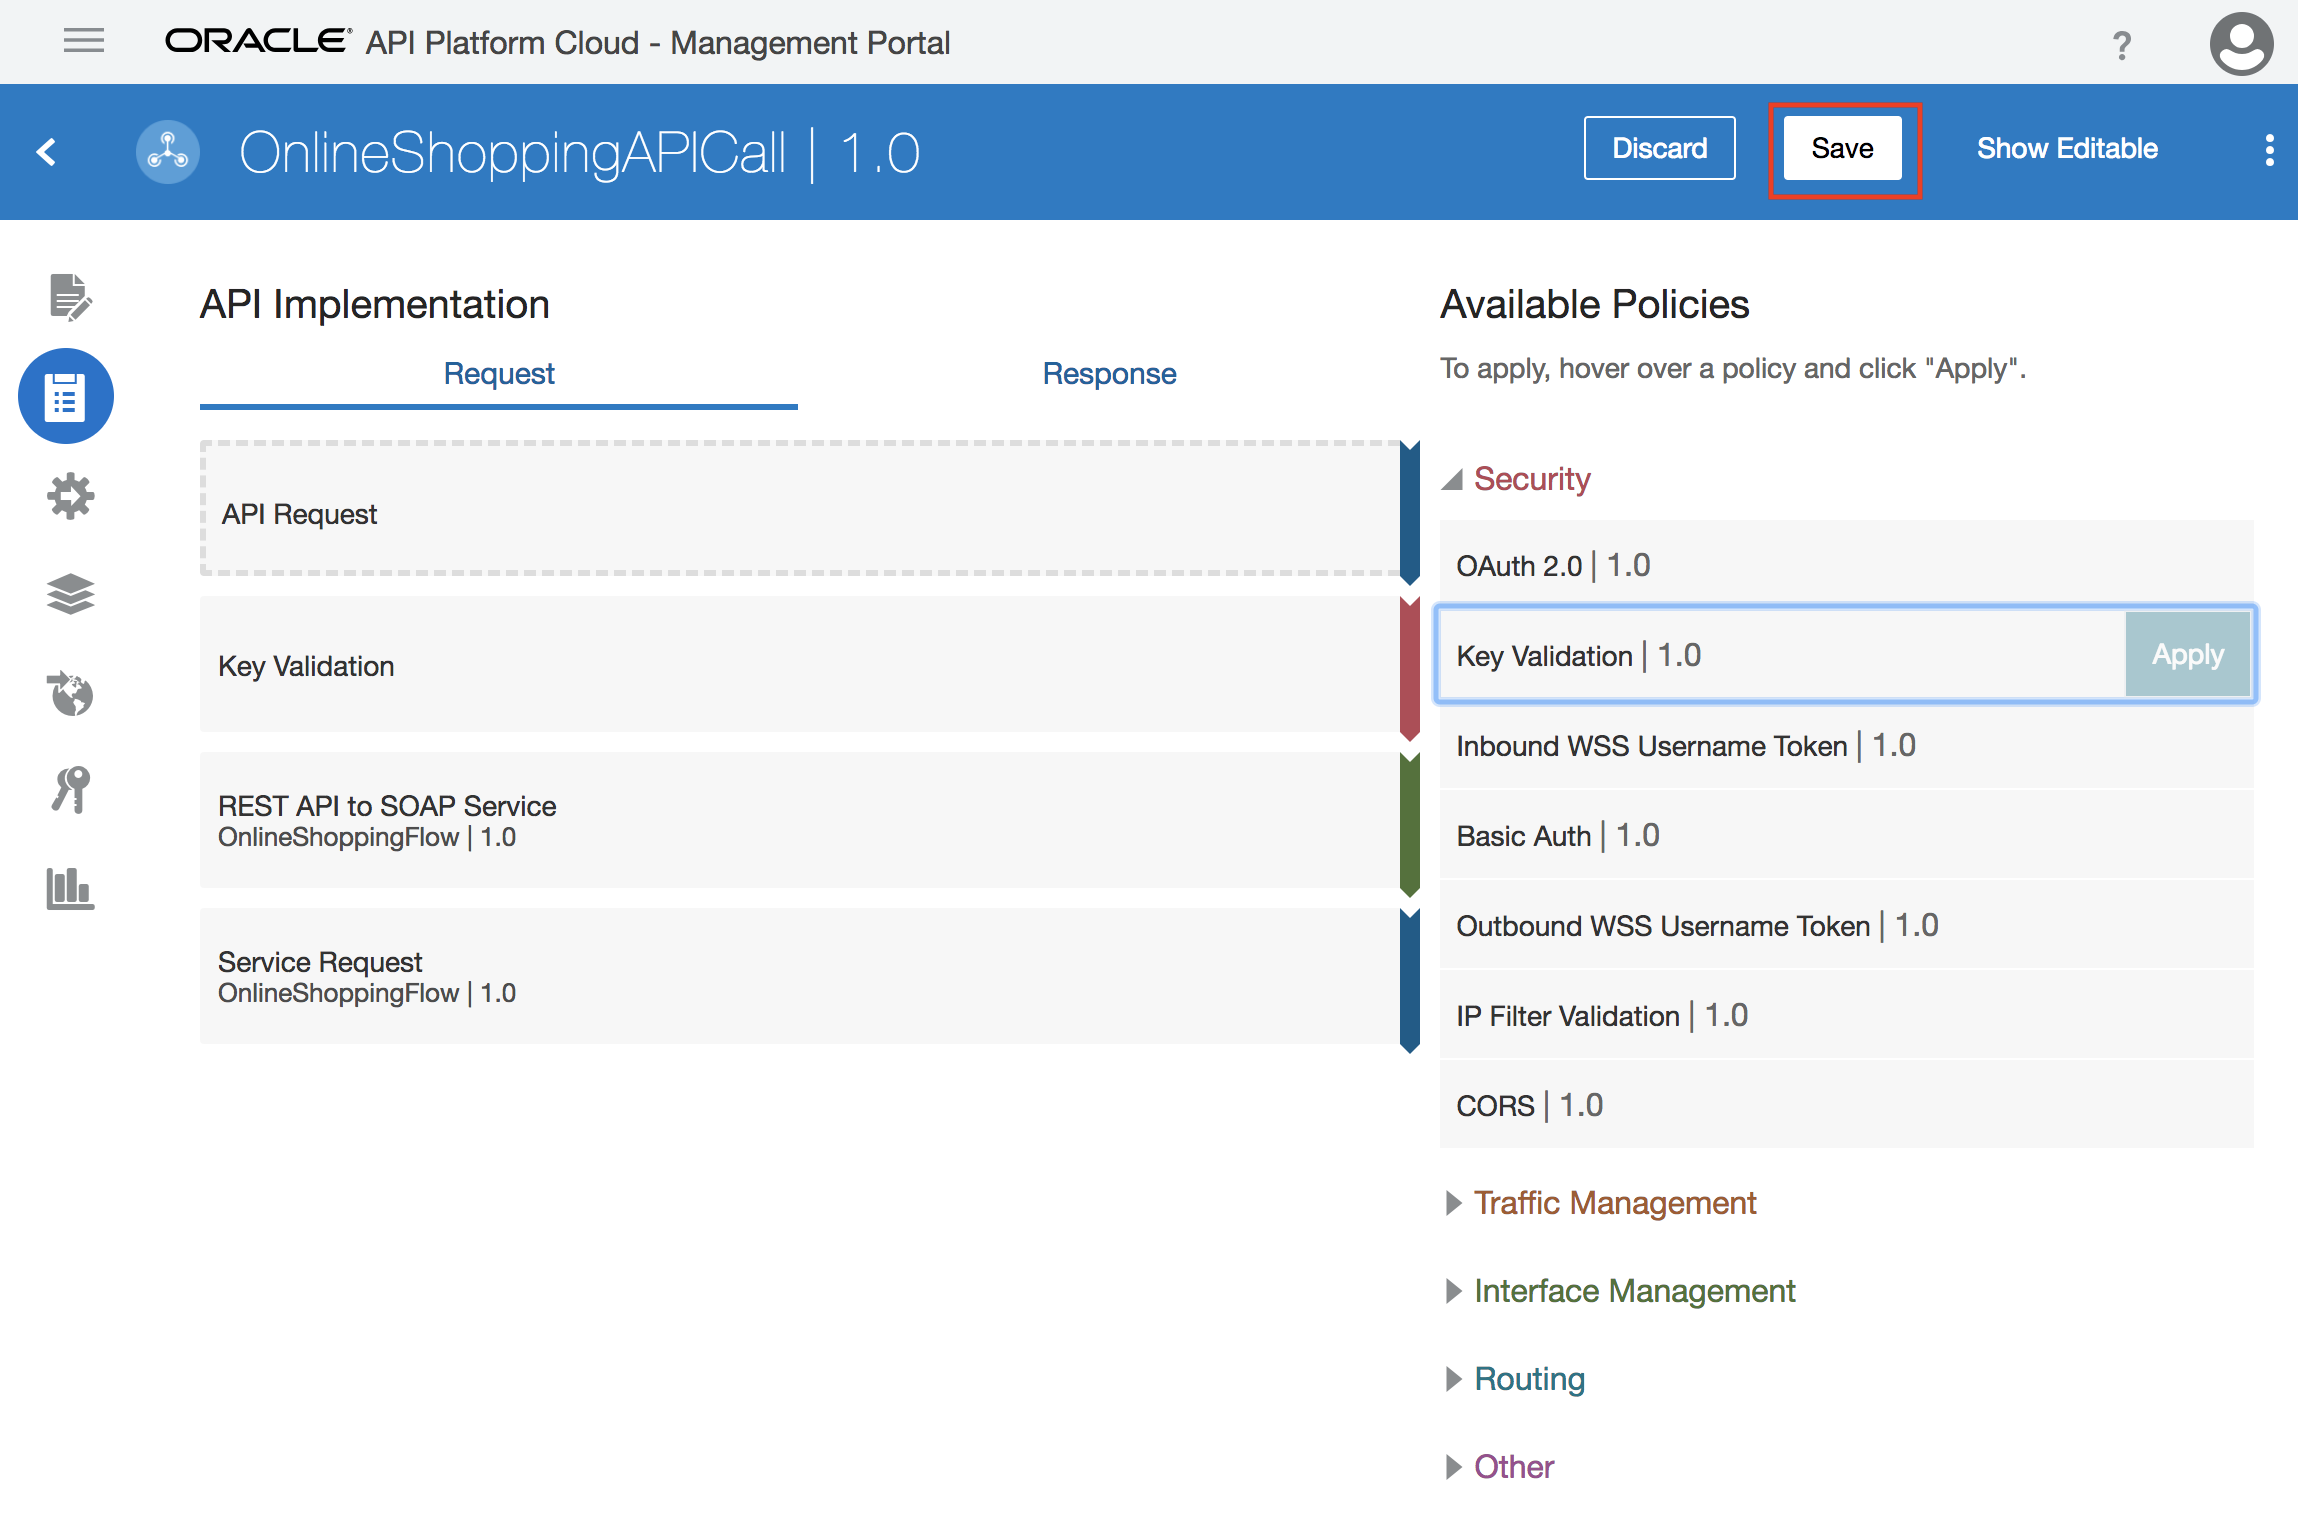
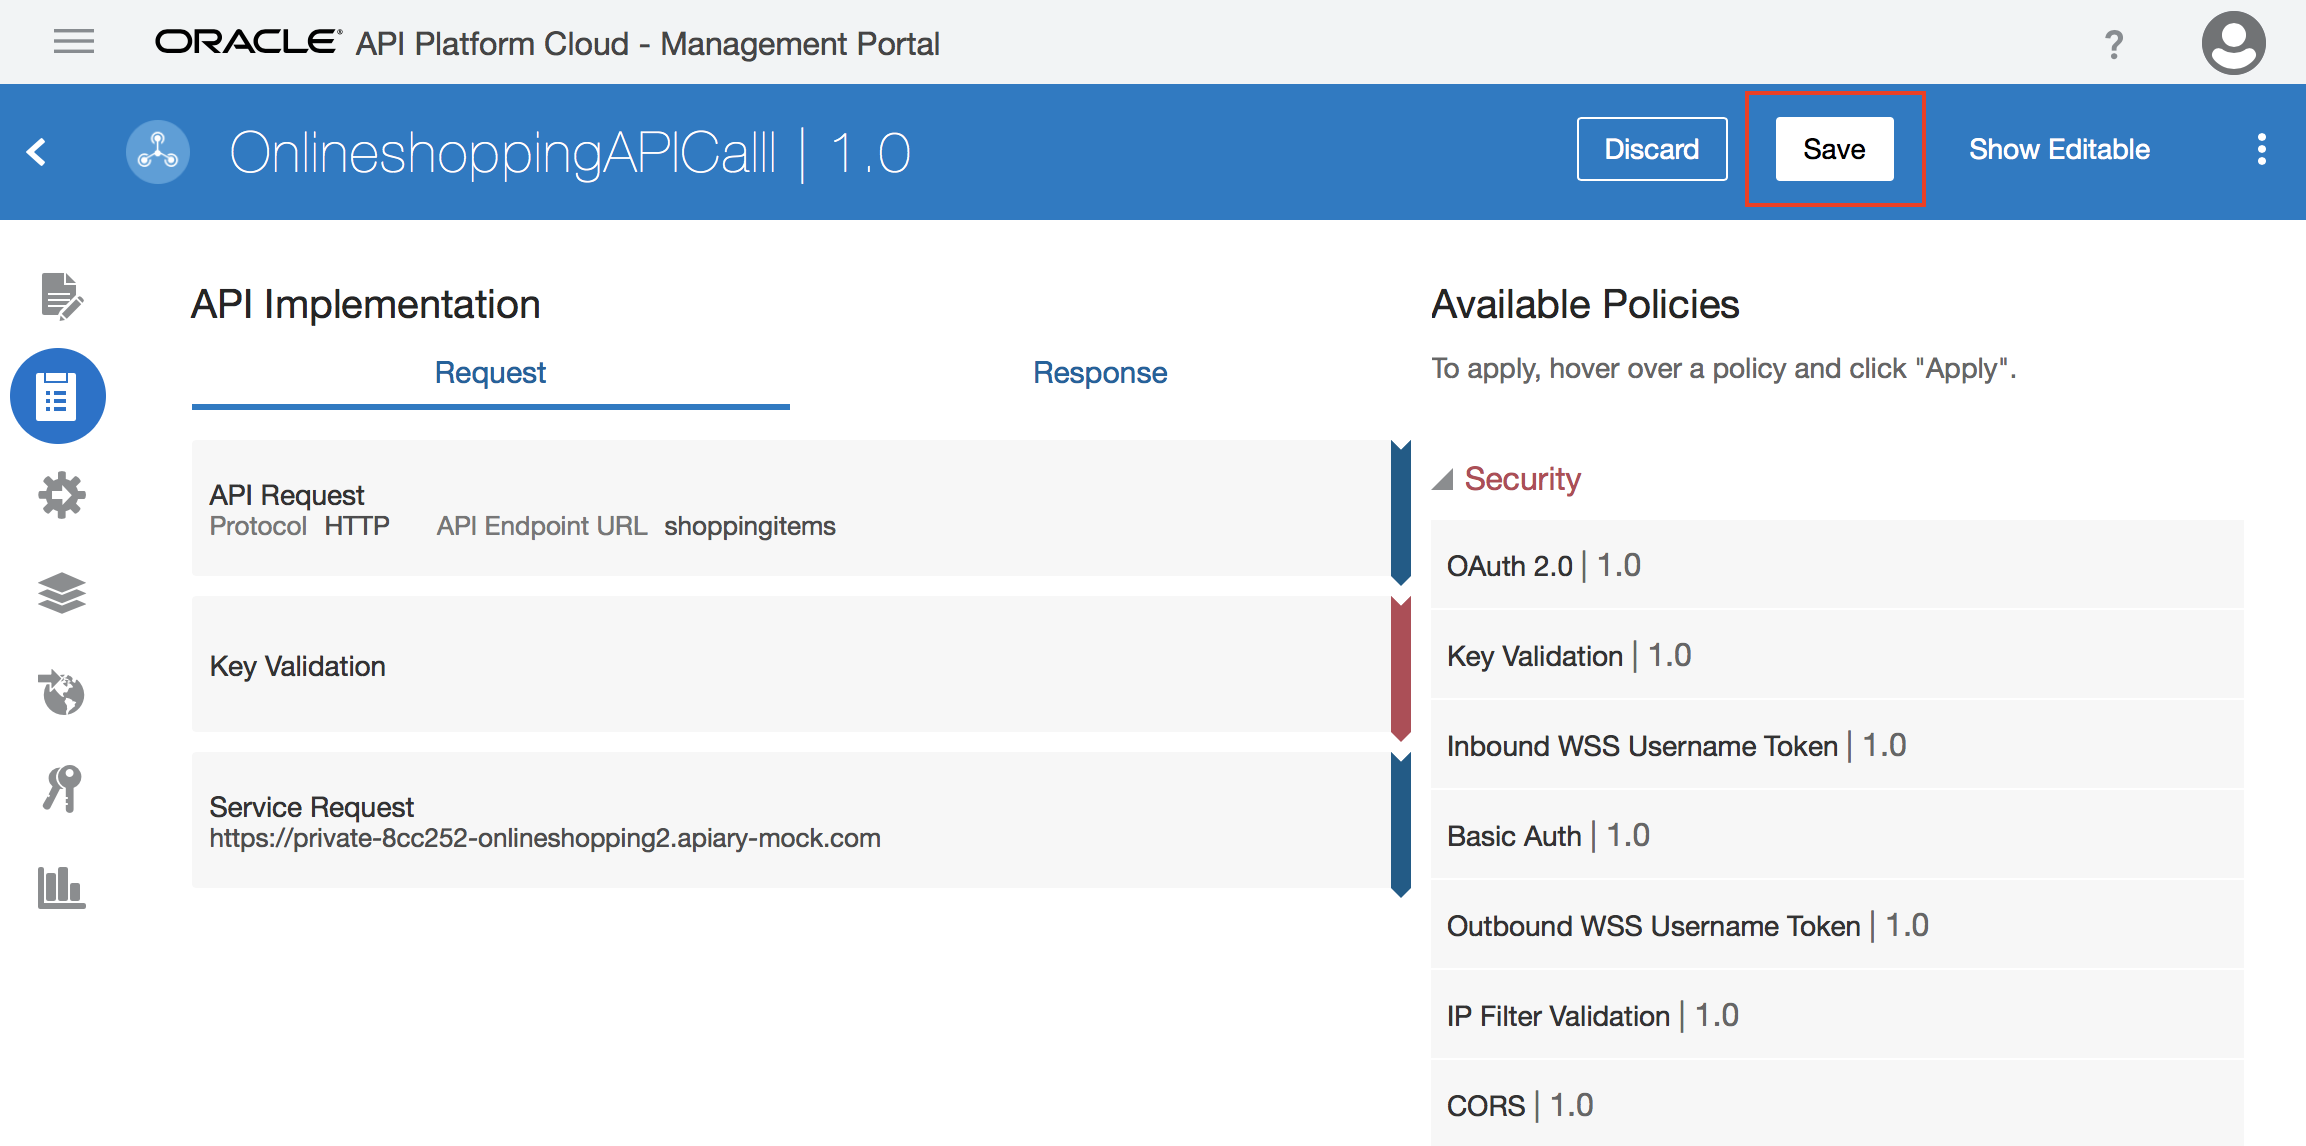
draft 1

diff --git a/ics900.md b/ics900.md
@@ -34,21 +34,33 @@ Let's start by logging into the API Platform Cloud Management Portal.
 ![Homepage](images/900/image102.png)
 
 
-## 1.2: Configure API Request
+## 1.2: Configure API Specification
 
 #### 1.2.1: From the APIs tab, click the **_OnlineshoppingAPICall_** API you created in the previous task
 ![Homepage](images/900/image103.png)
 
-#### 1.2.1: From the APIs tab, click the **_OnlineshoppingAPICall_** API you created in the previous task
-![Homepage](images/900/image103.png)
+#### 1.2.2: Select the **_Specification_** icon, and click on **_Apiary_** 
+![Homepage](images/900/image115.png)
 
-#### 1.2.2: Click on the API Implementation icon
+#### 1.2.4: Select the API you've created, and click **_Connect_**
+NOTE: If you don't have an API created in Apiary, go ahead and create one.
+![Homepage](images/900/image116.png)
+
+#### 1.2.5: Confirm connection
+![Homepage](images/900/image117.png)
+
+#### 1.2.6: Save
+
+
+## 1.3: Configure API Request
+
+#### 1.3.2: Click on the API Implementation icon
 ![Homepage](images/900/image104.png)
 
-#### 1.2.3: Click on API Request, and click the **_Edit_** button
+#### 1.3.3: Click on API Request, and click the **_Edit_** button
 ![Homepage](images/900/image105.png)
 
-#### 1.2.4: Select **_HTTP_** from the **_protocol_** list, and enter an endpoint, and click **_apply_**
+#### 1.3.4: Select **_HTTP_** from the **_protocol_** list, and enter an endpoint, and click **_apply_**
 ![Homepage](images/900/image106.png)
 
 
@@ -58,7 +70,8 @@ Let's start by logging into the API Platform Cloud Management Portal.
 ![Homepage](images/900/image107.png)
 
 #### 1.3.2: Enter an Apiary Mock Service URL in **_Enter a URL_**, and click **_Apply_**
-![Homepage](images/900/image108.png)
+NOTE: Enter everything until the .com
+![Homepage](images/900/image118.png)
 
 #### 1.3.3: Click **_Save_**
 ![Homepage](images/900/image109.png)
@@ -66,41 +79,35 @@ Let's start by logging into the API Platform Cloud Management Portal.
 
 ## 1.4: Configure Security
 
-#### 1.4.1: Under APIs, select the API you have created
-![Homepage](images/900/image901.png)
-
-#### 1.4.2: Select the **_API Implementation_** icon from the icon list on the left
-![Homepage](images/900/image902.png)
-
-#### 1.4.3: Click on **_Security_** to expand it 
+#### 1.4.1: While in the **_API Implementation_** section, click on **_Security_** from the available policies 
 ![Homepage](images/900/image903.png)
 
-#### 1.4.4: Select **_Key Validation_**
+#### 1.4.3: Select **_Key Validation_**
 ![Homepage](images/900/image904.png)
 
-#### 1.4.5: Click on **_Apply_**
+#### 1.4.4: Click on **_Apply_**
 ![Homepage](images/900/image905.png)
 
-#### 1.4.6:  Complete the required fields on the first page, and click the next button
+#### 1.4.5:  Complete the required fields on the first page, and click the next button
 ![Homepage](images/900/image906.png)
 
-#### 1.4.7: Provide a **_Key Query Parameter_**, and click **_Apply_**
+#### 1.4.6: Provide a **_Key Query Parameter_**, and click **_Apply_**
 ![Homepage](images/900/image907.png)
 
-#### 1.4.8: Click on **_Save_**
+#### 1.4.7: Click on **_Save_**
 ![Homepage](images/900/image908.png)
 
 
-#### 1.4.9: Confirm that the security configuration is saved
+#### 1.4.8: Confirm that the security configuration is saved
 ![Homepage](images/900/image909.png)
 
-#### 1.4.10: Additional resources on available security policies
+#### 1.4.9: Additional resources on available security policies
 ![Homepage](images/900/image910.png)
 
 - [Refer to policy details here](https://docs.oracle.com/en/cloud/paas/api-platform-cloud/apfad/implement-apis.html#GUID-1EE65B88-5050-4AFE-8F53-4B256D4E2AA3)
 
 
-## 1.5 Deploy API to Gateway
+## 1.5: Deploy API to Gateway
 
 #### 1.5.1: Click on the **_Deployments_** icon
 ![Homepage](images/900/image911.png)
@@ -114,13 +121,91 @@ Let's start by logging into the API Platform Cloud Management Portal.
 NOTE: you should receive a notification that your deployment request has been submitted.
 
 #### 1.5.4: Confirm that the API has been deployed
-![Homepage](images/900/image914.png)
+![Homepage](images/900/image110.png)
 
 
-## 1.4: Login to Developers Portal
+## 1.6: Configure Entitlements
+
+## 1.6.1: Click on **_Add Entitlement_**
+![Homepage](images/900/image110.png)
+
+#### 1.6.2: Select a plan, and click **_Add_**
+![Homepage](images/900/image111.png)
+
+#### 1.6.2: Click on your plan and select **_Published_**
+![Homepage](images/900/image112.png)
+
+#### 1.6.3: Select **_Yes_** to publish the entitlement
+![Homepage](images/900/image113.png)
+
+#### 1.6.4: Confirm that the API is published
+![Homepage](images/900/image114.png)
+
+
+## 1.7: Configure Publication
+
+#### 1.7.1: Enter Portal Name, and click **_Save_**
+![Homepage](images/900/image915.png)
+
+#### 1.7.2: Enter Portal Name, and click **_Save_**
+![Homepage](images/900/image915.png)
+
+#### 1.7.3: Click **_Publish to Portal_**
+![Homepage](images/900/image916.png)
+
+#### 1.7.4: Confirm that you have an API Portal URL generated
+![Homepage](images/900/image917.png)
+
+## 1.8: Log into the Developer Portal
+
+#### 1.8.1: Use the same login credentials you used to log into the Management Portal
+![Homepage](images/900/image918.png)
+
+
+## 1.9: Register an Application
+
+#### 1.9.1: Click the **_My Applications_** icon at the top right of the UI
+![Homepage](images/900/image919.png)
+
+#### 1.9.2: Click on **_Register Application_**
+![Homepage](images/900/image920.png)
+
+#### 1.9.3: Enter **_Application Name_**. Select an application type from the **_Application Type_** list. Enter **_Contact Information_** and **_Save_**.
+![Homepage](images/900/image930.png)
+
+#### 1.9.4: Click on the application you just registered
+![Homepage](images/900/image931.png)
+
+#### 1.9.5: Highlight and copy the application key. Paste it in a notepad for later use
+![Homepage](images/900/image932.png)
+
+
+## 1.10: Subscribe Application to a API
+
+#### 1.10.1: Click on the **_APIs_** icon 
+![Homepage](images/900/image933.png)
+
+#### 1.10.2: Click on the API you have created
+![Homepage](images/900/image934.png)
+
+#### 1.10.3: Click on the **_Plans_** icon
+![Homepage](images/900/image935.png)
+
+#### 1.10.4: click on **_Subscribe_**
+![Homepage](images/900/image936.png)
+
+#### 1.10.5: Choose an application from the selected Plan, and click **_Subscribe_**
+![Homepage](images/900/image937.png)
+
+#### 1.10.6: Confirm that your application is listed under **_Subscribed Application_**
+![Homepage](images/900/image937.png)
+
+
 
 
 You have now completed Lab 900 of the Oracle Integration Cloud SaaS Developer Workshop.
 
-- This ab is now completed.
+
+
+- This lab is now completed.
 
